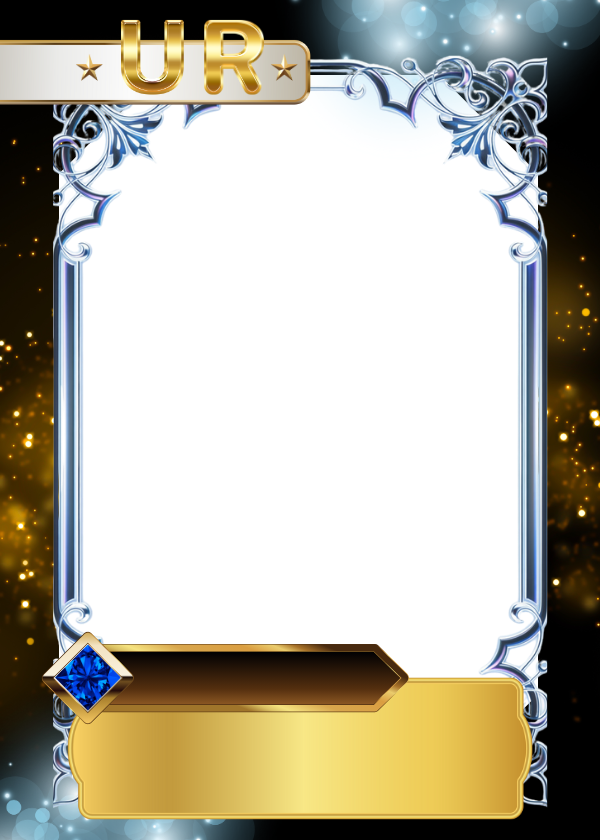
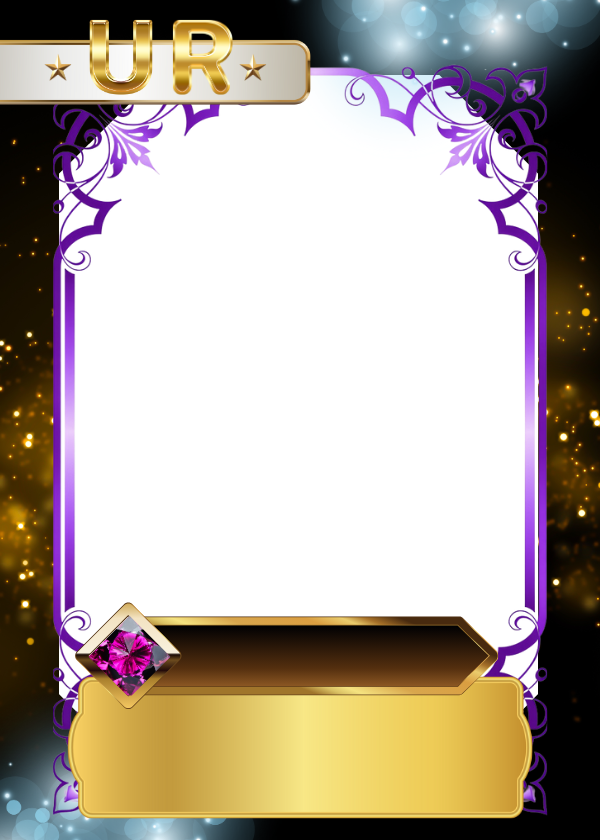
fix(tcg): TITLE_POSITION/DESC_POSITION縺ｮ謠冗判菴咲ｽｮ繧定ｪｿ謨ｴ縲ヽR/SR譫霑ｽ蜉

Changed region(s): [[0.06, 0.0, 0.93, 0.9905]]

diff --git a/scripts/tcg_generator/src/services/image_service.py b/scripts/tcg_generator/src/services/image_service.py
@@ -31,8 +31,8 @@ from src.core.models import CardData, Rarity
 from src.utils.text_layout import draw_text_wrapped_ja, get_line_height, wrap_text_ja
 
 # テキスト描画位置（枠レイアウトに合わせて調整）
-TITLE_POSITION = (140, 652)
-DESC_POSITION = (135, 735)
+TITLE_POSITION = (190, 628)
+DESC_POSITION = (130, 718)
 TEXT_FILL = (255, 255, 255)
 # 説明文のみ黒系（DESC_POSITION 付近の背景とのコントラスト用）
 DESC_TEXT_FILL = (0, 0, 0)
@@ -182,7 +182,14 @@ def composite_card(
     line_height_title = get_line_height(draw, title_font, LINE_SPACING)
     tx, ty = TITLE_POSITION
     for i, line in enumerate(title_lines):
-        draw.text((tx, ty + i * line_height_title), line, font=title_font, fill=TEXT_FILL)
+        draw.text(
+            (tx, ty + i * line_height_title),
+            line,
+            font=title_font,
+            fill=TEXT_FILL,
+            stroke_width=1,
+            stroke_fill=TEXT_FILL,
+        )
 
     # 説明（折り返し＋禁則）
     draw_text_wrapped_ja(
